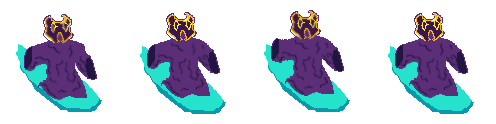
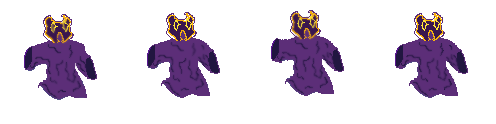
fix capa

diff --git a/script.js b/script.js
@@ -34,7 +34,9 @@ let hitboxSizes = [
 ];
 let showHitboxes = false;
 const ITEM_SPRITE_FILE = 'spr_capa.png';
+const TABLA_SPRITE_FILE = 'tabla.png'; // <-- nuevo
 let itemSpriteSheet;
+let tablaSpriteSheet; // <-- nuevo
 let item;
 let capeEquipped = false;
 let capeTimer = 0;
@@ -58,12 +60,18 @@ const MAX_BLUR = 2;      // blur máximo (ajustable)
 const BLEND_SPEED = 0.06;
 const BLUR_DEFAULT_DURATION = 500; // ms -> medio segundo (pulse total)
 const ATTACHED_SCALE = 1.6; // escala de la capa cuando está puesta (ajusta aquí)
+// Nuevo: offsets y suavizado de seguimiento
+const ATTACHED_OFFSET_X = 12;   // distancia horizontal desde el centro del jugador (más cerca)
+// Antes era -10; ahora sumamos +16px para dibujar la capa 16px más abajo cuando está puesta
+const ATTACHED_OFFSET_Y = 6;    // altura relativa al centro del jugador (en px)
+const ATTACHED_FOLLOW_LERP = 0.22; // 0..1, qué tan rápido sigue la capa
 
 function preload() {
   try {
     playerSpriteSheet = loadImage(SPRITE_SHEET_FILE);
     bgSpriteSheet = loadImage(BG_SPRITE_SHEET_FILE);
     itemSpriteSheet = loadImage(ITEM_SPRITE_FILE);
+    tablaSpriteSheet = loadImage(TABLA_SPRITE_FILE); // <-- cargar tabla
     // nuevo: cargar fondo nocturno en preload para cambiar instantáneamente
     bgNightSpriteSheet = loadImage(BG_NIGHT_SPRITE_SHEET_FILE);
   } catch (e) {
@@ -205,6 +213,10 @@ function draw() {
     bgBlendTarget = 1;
     setBlurPulse(MAX_BLUR, BLUR_DEFAULT_DURATION);
     item.pickupLocked = true;
+    // iniciar posición de la capa justo cerca del jugador para evitar "salto"
+    const initDir = -side;
+    item.x = player.x + initDir * ATTACHED_OFFSET_X;
+    item.y = player.y + ATTACHED_OFFSET_Y;
   }
 
   // Temporizador de la capa
@@ -229,6 +241,15 @@ function draw() {
     item.pickupLocked = false;
   }
 
+  // Si la capa está puesta, hacer que la capa siga suavemente la posición objetivo del jugador
+  if (item && item.attached) {
+    const dir = -side; // la capa va al lado opuesto
+    const targetX = player.x + dir * ATTACHED_OFFSET_X;
+    const targetY = player.y + ATTACHED_OFFSET_Y;
+    item.x = lerp(item.x, targetX, ATTACHED_FOLLOW_LERP);
+    item.y = lerp(item.y, targetY, ATTACHED_FOLLOW_LERP);
+  }
+
   // --- DIBUJADO: fondo y elementos en el orden correcto ---
   // fondo (con crossfade)
   drawBackgroundSprite();
@@ -237,19 +258,23 @@ function draw() {
   updateMandala();
   drawMandala();
 
-  // si la capa está puesta -> dibujarla ANTES del jugador (queda detrás del jugador)
-  if (item && item.attached) {
-    item.displayAttached(player);
+  // NUEVO ORDEN: tabla debajo, luego capa attached (encima de la tabla), luego jugador (encima de la capa)
+  if (tablaSpriteSheet) {
+    drawTablaUnderPlayer(player);   // tabla primero (más abajo)
   }
 
-  // dibujar jugador
+  if (item && item.attached) {
+    item.displayAttached(player);   // capa encima de la tabla
+  }
+
+  // dibujar jugador encima de la capa
   player.display();
 
   // si la capa NO está puesta en el jugador, dibujarla en su posición de suelo (por encima del jugador)
   if (item && !item.attached) {
     item.display();
   }
-
+  
   // UI / hitboxes / texto de estado
   if (showHitboxes) {
     drawHitboxes();
@@ -400,8 +425,6 @@ class Item {
   // dibujo cuando está puesta en el jugador (se dibuja detrás del jugador)
   displayAttached(playerObj) {
     if (!itemSpriteSheet) return;
-
-    // calcular frame
     const totalFrames = max(1, floor(itemSpriteSheet.width / FRAME_WIDTH));
     const t = millis() / (1000 / this.frameRate);
     const frameIndex = floor(t) % totalFrames;
@@ -409,32 +432,21 @@ class Item {
     const sy = 0;
 
     push();
-    // offsets configurables
-    const offsetY = -10;                 // altura relativa al centro del jugador
-    const offsetDistX = 26 * ATTACHED_SCALE; // distancia horizontal desde el centro del jugador
+    // usar la propia posición item.x/item.y (actualizada por el follow)
+    translate(this.x, this.y);
 
-    // queremos que la capa se dibuje hacia el lado contrario de `side`
-    // si side == 1 (jugador mira a la derecha) -> la capa se dibuja a la izquierda: dir = -side
-    const dir = -side; // -1 o 1
+    // la capa apunta al lado opuesto: usamos dir para calcular rotación coherente
+    const dir = -side;
+    rotate(-0.4 * dir);
 
-    // colocamos el origen en la posición objetivo (centro del jugador + offset lateral/opuesto)
-    translate(playerObj.x + dir * offsetDistX, playerObj.y + offsetY);
-
-    // aplicar escala para tamaño e inversión horizontal según sea necesario
-    // scaleX = dir * ATTACHED_SCALE (si dir = -1 -> voltea horizontalmente)
-    scale(dir * ATTACHED_SCALE, ATTACHED_SCALE);
-
-    // rotación ligera para que "cuelgue" coherente con la dirección
-    // rotar en sentido que haga que la capa apunte hacia dir
-    rotate(-0.4 * dir); // ajusta 0.4 (radianes) si quieres otra inclinación
+    // Voltear horizontalmente según side (side = 1 normal, -1 espejo)
+    scale(side, 1);
 
     imageMode(CENTER);
     noTint();
 
-    // dibujar el frame (usamos FRAME_WIDTH/HEIGHT como fuente)
-    const displayW = FRAME_WIDTH;  // ya escalamos con scale(), así dejamos el width igual a frame
-    const displayH = FRAME_HEIGHT;
-    image(itemSpriteSheet, 0, 0, displayW, displayH, sx, sy, FRAME_WIDTH, FRAME_HEIGHT);
+    // Usar exactly the same drawn size as cuando está en el suelo
+    image(itemSpriteSheet, 0, 0, this.w, this.h, sx, sy, FRAME_WIDTH, FRAME_HEIGHT);
     pop();
   }
 }
@@ -529,4 +541,40 @@ function setBlurPulse(target, duration = BLUR_DEFAULT_DURATION) {
   blurPulseStart = millis();
   blurPulseDuration = Math.max(0, duration);
   blurPulseTarget = target;
+}
+
+// nueva función: dibuja tabla debajo del jugador pero por encima de la capa,
+// usando el mismo índice de frame que el jugador para mantener timing.
+function drawTablaUnderPlayer(playerObj) {
+  if (!tablaSpriteSheet) return;
+
+  // calcular frame sincronizado con el jugador
+  const frameIndex = playerObj.currentFrame || 0;
+  const sx = frameIndex * FRAME_WIDTH;
+  const sy = 0;
+
+  push();
+  imageMode(CENTER);
+
+  // posición ligeramente por debajo/centro del jugador (ajusta offsets si hace falta)
+  const offsetY = 6;      // desplaza la tabla verticalmente respecto al centro del jugador
+  const offsetX = 0;      // si quieres desplazar lateralmente según side, ajusta aquí
+  const drawX = playerObj.x + offsetX;
+  const drawY = playerObj.y + offsetY;
+
+  // tamaño: seguir tamaño del jugador (se puede ajustar)
+  const drawW = playerObj.width * 1.05;
+  const drawH = playerObj.height * 1.05;
+
+  // si la tabla necesita flip según side para mantener coherencia, aplicarlo:
+  if (side === -1) {
+    // voltear horizontalmente alrededor del punto de dibujo
+    translate(drawX, drawY);
+    scale(-1, 1);
+    image(tablaSpriteSheet, 0, 0, drawW, drawH, sx, sy, FRAME_WIDTH, FRAME_HEIGHT);
+  } else {
+    image(tablaSpriteSheet, drawX, drawY, drawW, drawH, sx, sy, FRAME_WIDTH, FRAME_HEIGHT);
+  }
+
+  pop();
 }
